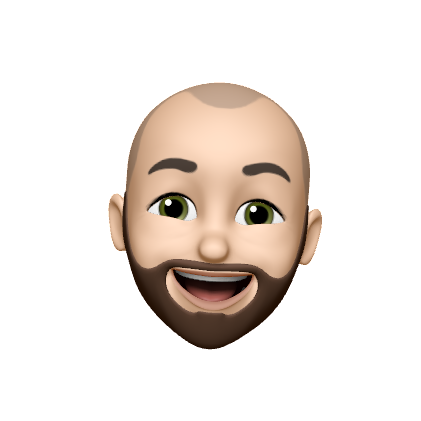
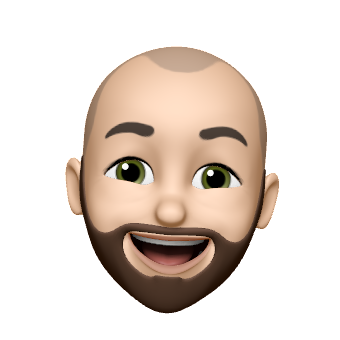
whoami

Changed region(s): [[0.1765, 0.1176, 0.8235, 0.9412]]

diff --git a/pages/index.tsx b/pages/index.tsx
@@ -24,6 +24,7 @@ import search from "../public/img/picto/search.png";
 import pantone from "../public/img/picto/pantone.png";
 import team from "../public/img/team.svg";
 import videocall from "../public/img/videocall.svg";
+import emoji from "../public/img/emoji.png";
 
 /* -------------------------------------------------------------------------- */
 /*                                  COMPONENT                                 */
@@ -84,7 +85,11 @@ const Home: NextPage = () => {
         </section>
 
         {/* -------------------------------- SERVICES ------------------------------- */}
-        <section className={styles.servicesContainer}>
+        <section
+          className={[styles.sectionContainer, styles.servicesContainer].join(
+            " "
+          )}
+        >
           <h3 className={styles.title}>Prestations de service</h3>
           <p className={styles.subTitle}>
             Les prestations proposées couvrent l’ensemble des besoins auxquels
@@ -114,7 +119,12 @@ const Home: NextPage = () => {
         </section>
 
         {/* -------------------------------- ORGANISATION ------------------------------- */}
-        <section className={styles.organisationContainer}>
+        <section
+          className={[
+            styles.sectionContainer,
+            styles.organisationContainer,
+          ].join(" ")}
+        >
           <h3 className={styles.title}>Organisation</h3>
           <p className={styles.subTitle}>
             En fonction de la nature et de la durée de la mission, la prestation
@@ -135,7 +145,11 @@ const Home: NextPage = () => {
         </section>
 
         {/* -------------------------------- QUESTIONS ------------------------------- */}
-        <section className={styles.questionContainer}>
+        <section
+          className={[styles.sectionContainer, styles.questionsContainer].join(
+            " "
+          )}
+        >
           <h3 className={styles.title}>Questions courantes</h3>
           <p className={styles.subTitle}>
             Trouvez les réponses à la plupart des questions que vous pourriez
@@ -144,34 +158,55 @@ const Home: NextPage = () => {
         </section>
 
         {/* -------------------------------- COMMITMENT ------------------------------- */}
-        <section className={styles.commitmentContainer}>
+        <section
+          className={[styles.sectionContainer, styles.commitmentContainer].join(
+            " "
+          )}
+        >
           <h3 className={styles.title}>Engagements</h3>
         </section>
 
         {/* -------------------------------- ABOUT ------------------------------- */}
-        <section className={styles.aboutContainer}>
+        <section
+          className={[styles.sectionContainer, styles.aboutContainer].join(" ")}
+        >
           <h3 className={styles.title}>Qui suis-je ?</h3>
+          <figure className={styles.emojiContainer}>
+            <Image
+              src={emoji}
+              alt="emoji paulin caratini"
+              placeholder="blur"
+              quality={100}
+            />
+          </figure>
           <p>
-            C’est en échangeant quotidiennement avec des intégrateurs et
-            développeurs web lorsque j’occupais des postes de chef de projet
-            digital au sein d’agences marketing que je me suis découvert un
-            intérêt prononcé pour le fonctionnement technique des applications
-            web.
+            C’est en échangeant quotidiennement avec des{" "}
+            <strong>intégrateurs et développeurs web</strong> lorsque j’occupais
+            des postes de <strong>chef de projet digital</strong> au sein d'
+            <strong>agences marketing</strong> que je me suis découvert un
+            intérêt prononcé pour le <strong>fonctionnement technique</strong>{" "}
+            des <strong>applications web</strong>.
             <br />
-            Cette curiosité m’a poussé à passer les certifications « Techniques
-            de développement web » et « Techniques d’intégration web » puis à
-            rejoindre tour à tour deux start-up pour les accompagner dans la
-            conception de leurs applications métiers réalisées sous TypeScript,
-            respectivement dans le secteur médical et de la grande distribution.
+            <br />
+            Cette curiosité m’a poussé à passer les certifications « 
+            <strong>Techniques de développement web</strong> » et « 
+            <strong>Techniques d’intégration web</strong> » puis à rejoindre
+            tour à tour deux start-up pour les accompagner dans la conception de
+            leurs <strong>applications métiers</strong> réalisées sous{" "}
+            <strong>TypeScript</strong>, respectivement dans le secteur médical
+            et de la grande distribution.
+            <br />
             <br />
             Ce sont ces expériences et ce parcours pluridisciplinaire qui me
             permettent aujourd’hui de proposer mes compétences à des
-            organisations à la recherche d’un développeur web freelance. Que
-            vous cherchiez à vous faire conseiller sur un projet en cours ou à
-            venir, à faire concevoir votre application web ou bien à renforcer
-            vos équipes, je vous invite à me contacter afin que nous puissions
-            échanger.
+            organisations à la recherche d’un{" "}
+            <strong>développeur web freelance</strong>. Que vous cherchiez à
+            vous faire conseiller sur un projet en cours ou à venir, à faire
+            concevoir votre <strong>application web</strong> ou bien à{" "}
+            <strong>renforcer vos équipes</strong>, je vous invite à me
+            contacter afin que nous puissions échanger.
           </p>
+          <button>Prendre contact</button>
         </section>
       </main>
 

diff --git a/styles/Home.module.scss b/styles/Home.module.scss
@@ -1,23 +1,13 @@
 @import "./variables.module.scss";
 
-// SHARED
-.title {
-  font-size: 2rem;
-  font-weight: 600;
-  margin-bottom: 20px;
-}
-.subTitle {
-  font-size: 1.1rem;
-  width: 60%;
-  margin: 0 auto;
-}
+$maxWidth: 1200px;
 
 // HEADLINES
 .headlinesContainer {
   display: flex;
   justify-content: space-between;
   align-items: center;
-  max-width: 1200px;
+  max-width: $maxWidth;
   margin: 210px auto 120px auto; // Add 90px to top because of fixed position header
   h1 {
     margin: 0;
@@ -44,30 +34,77 @@
   }
 }
 
+// SHARED
+
+.sectionContainer {
+  padding: 80px 0;
+  text-align: center;
+}
+
+.title {
+  margin-bottom: 20px;
+  font-size: 2rem;
+  font-weight: 600;
+  text-align: center;
+}
+.subTitle {
+  width: 60%;
+  margin: 0 auto;
+  font-size: 1.1rem;
+  text-align: center;
+}
+
 // SERVICES & ORGANISATION
 
 .cards {
   display: flex;
   justify-content: space-between;
   align-items: flex-start;
-  max-width: 1200px;
+  max-width: $maxWidth;
   margin: 60px auto 0 auto;
 }
 
 // SERVICES
 .servicesContainer {
   background-color: $primary-color-light;
-  padding: 80px 0;
-  text-align: center;
 }
 
 // ORGANISATION
 .organisationContainer {
   background: linear-gradient(0.25turn, $primary-color, $primary-color-medium);
-  padding: 80px 0;
-  text-align: center;
   .title,
   .subTitle {
     color: #ffffff;
+  }
+}
+
+// QUESTIONS
+
+// COMMITMENT
+
+// ABOUT
+.aboutContainer {
+  background: linear-gradient(0.25turn, $primary-color, $primary-color-medium);
+  .title,
+  .subTitle {
+    color: #ffffff;
+  }
+  .emojiContainer {
+    width: 160px;
+    height: 160px;
+    margin: 60px auto 30px auto;
+    border-radius: 1000px;
+    background-color: #ffffff;
+  }
+  p {
+    max-width: 850px;
+    margin: 0 auto;
+    padding: 0 30px;
+    color: #ffffff;
+  }
+  button {
+    margin-top: 60px;
+    background: #ffffff;
+    color: #000000;
   }
 }
